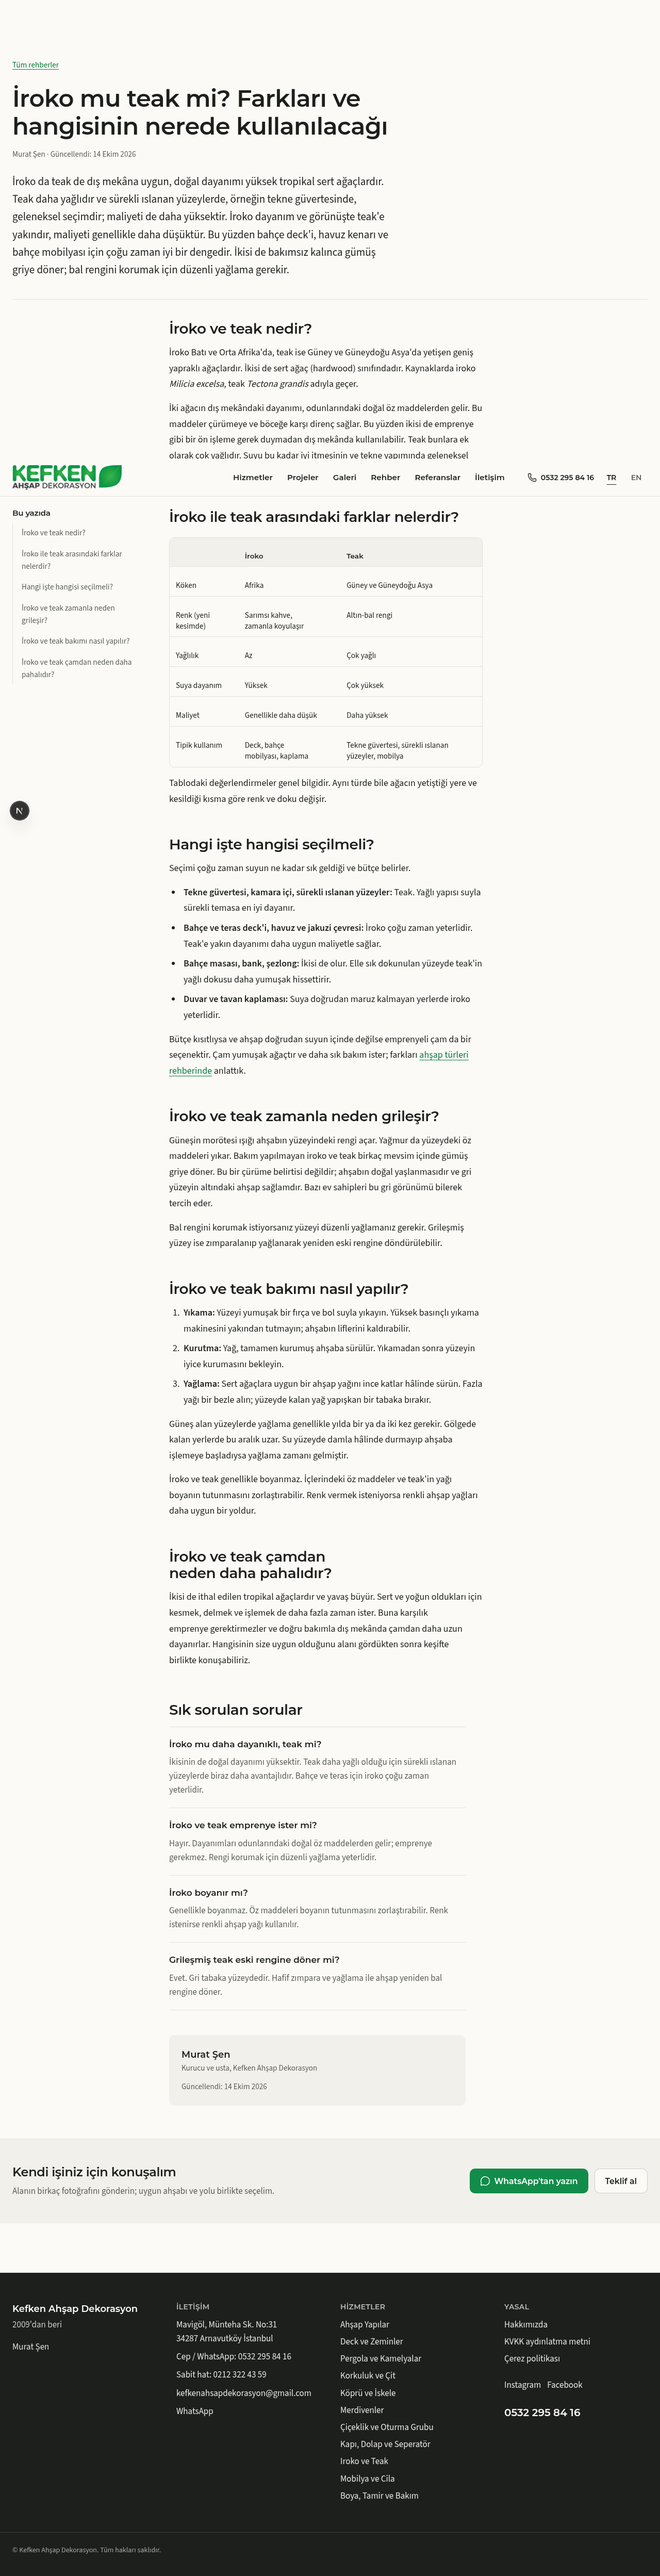
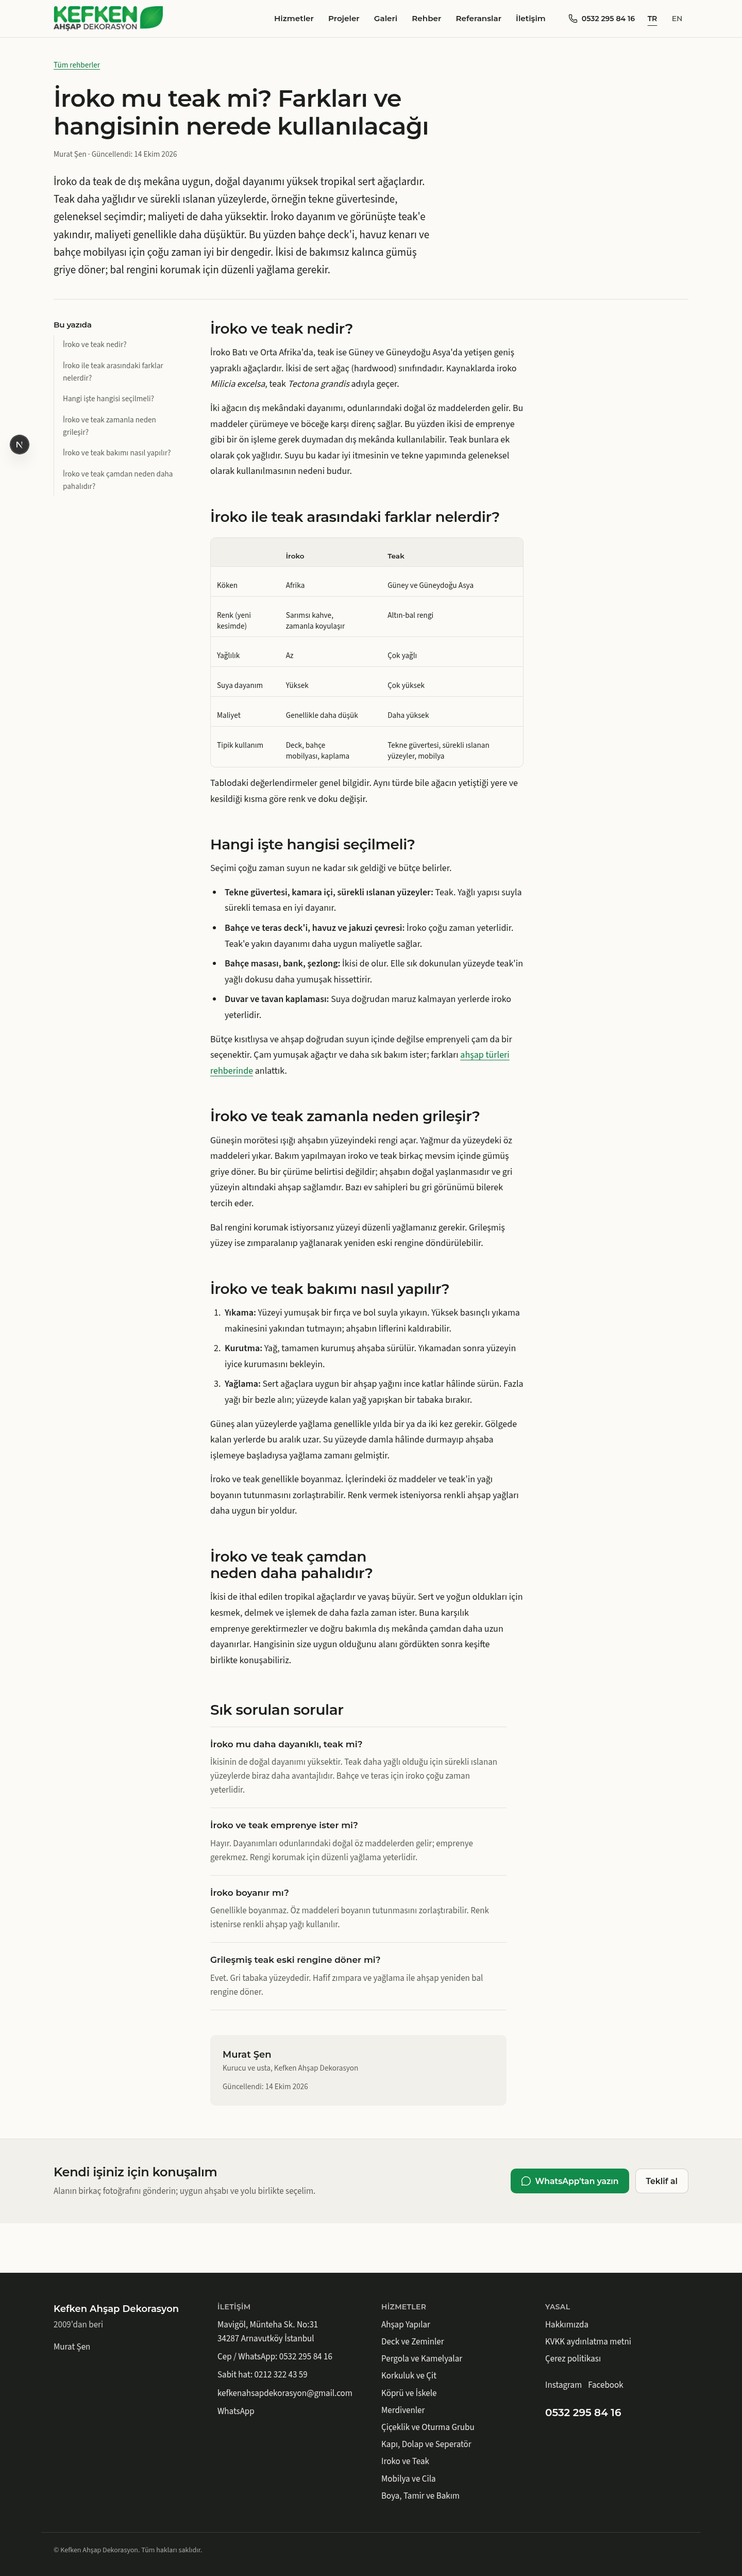
fix(guides): neutral pergola wording, 1440 screenshots before scroll (#49)

diff --git a/tests/e2e/guides.e2e.spec.ts b/tests/e2e/guides.e2e.spec.ts
@@ -41,8 +41,14 @@ test.afterAll(async () => {
 
 test.describe('guides', () => {
   test('guide page: TOC anchors, body table, FAQ, author box, updated date, hreflang', async ({ page }) => {
+    await page.setViewportSize({ width: 1440, height: 900 })
     await page.goto(`/tr/rehber/${slugs.tr}`)
     await expect(page.getByRole('heading', { level: 1, name: seed.tr.title })).toBeVisible()
+    // Screenshots before any scrolling, so the sticky header stays at the top of the full-page image.
+    await page.screenshot({ path: 'docs/screens/guide-desktop.png', fullPage: true })
+    await page.setViewportSize({ width: 390, height: 844 })
+    await page.screenshot({ path: 'docs/screens/guide-mobile.png', fullPage: true })
+    await page.setViewportSize({ width: 1440, height: 900 })
 
     // Every TOC link points at an H2 that exists on the page.
     const toc = page.getByRole('navigation', { name: 'Bu yazıda' })
@@ -59,9 +65,6 @@ test.describe('guides', () => {
     await expect(page.locator('time[datetime]').first()).toBeVisible()
     await expect(page.locator(`link[rel="alternate"][hreflang="en"]`)).toHaveAttribute('href', new RegExp(`/en/guides/${slugs.en}$`))
 
-    await page.screenshot({ path: 'docs/screens/guide-desktop.png', fullPage: true })
-    await page.setViewportSize({ width: 390, height: 844 })
-    await page.screenshot({ path: 'docs/screens/guide-mobile.png', fullPage: true })
   })
 
   test('EN guide path and index page', async ({ page }) => {
@@ -69,6 +72,7 @@ test.describe('guides', () => {
     await expect(page.getByRole('heading', { level: 1, name: seed.en.title })).toBeVisible()
     await expect(page.getByRole('navigation', { name: 'In this guide' })).toBeVisible()
 
+    await page.setViewportSize({ width: 1440, height: 900 })
     await page.goto('/tr/rehber')
     await expect(page.getByRole('heading', { level: 1, name: 'Rehber' })).toBeVisible()
     // Index is cached per hour: assert structure, not this run's fixture.
